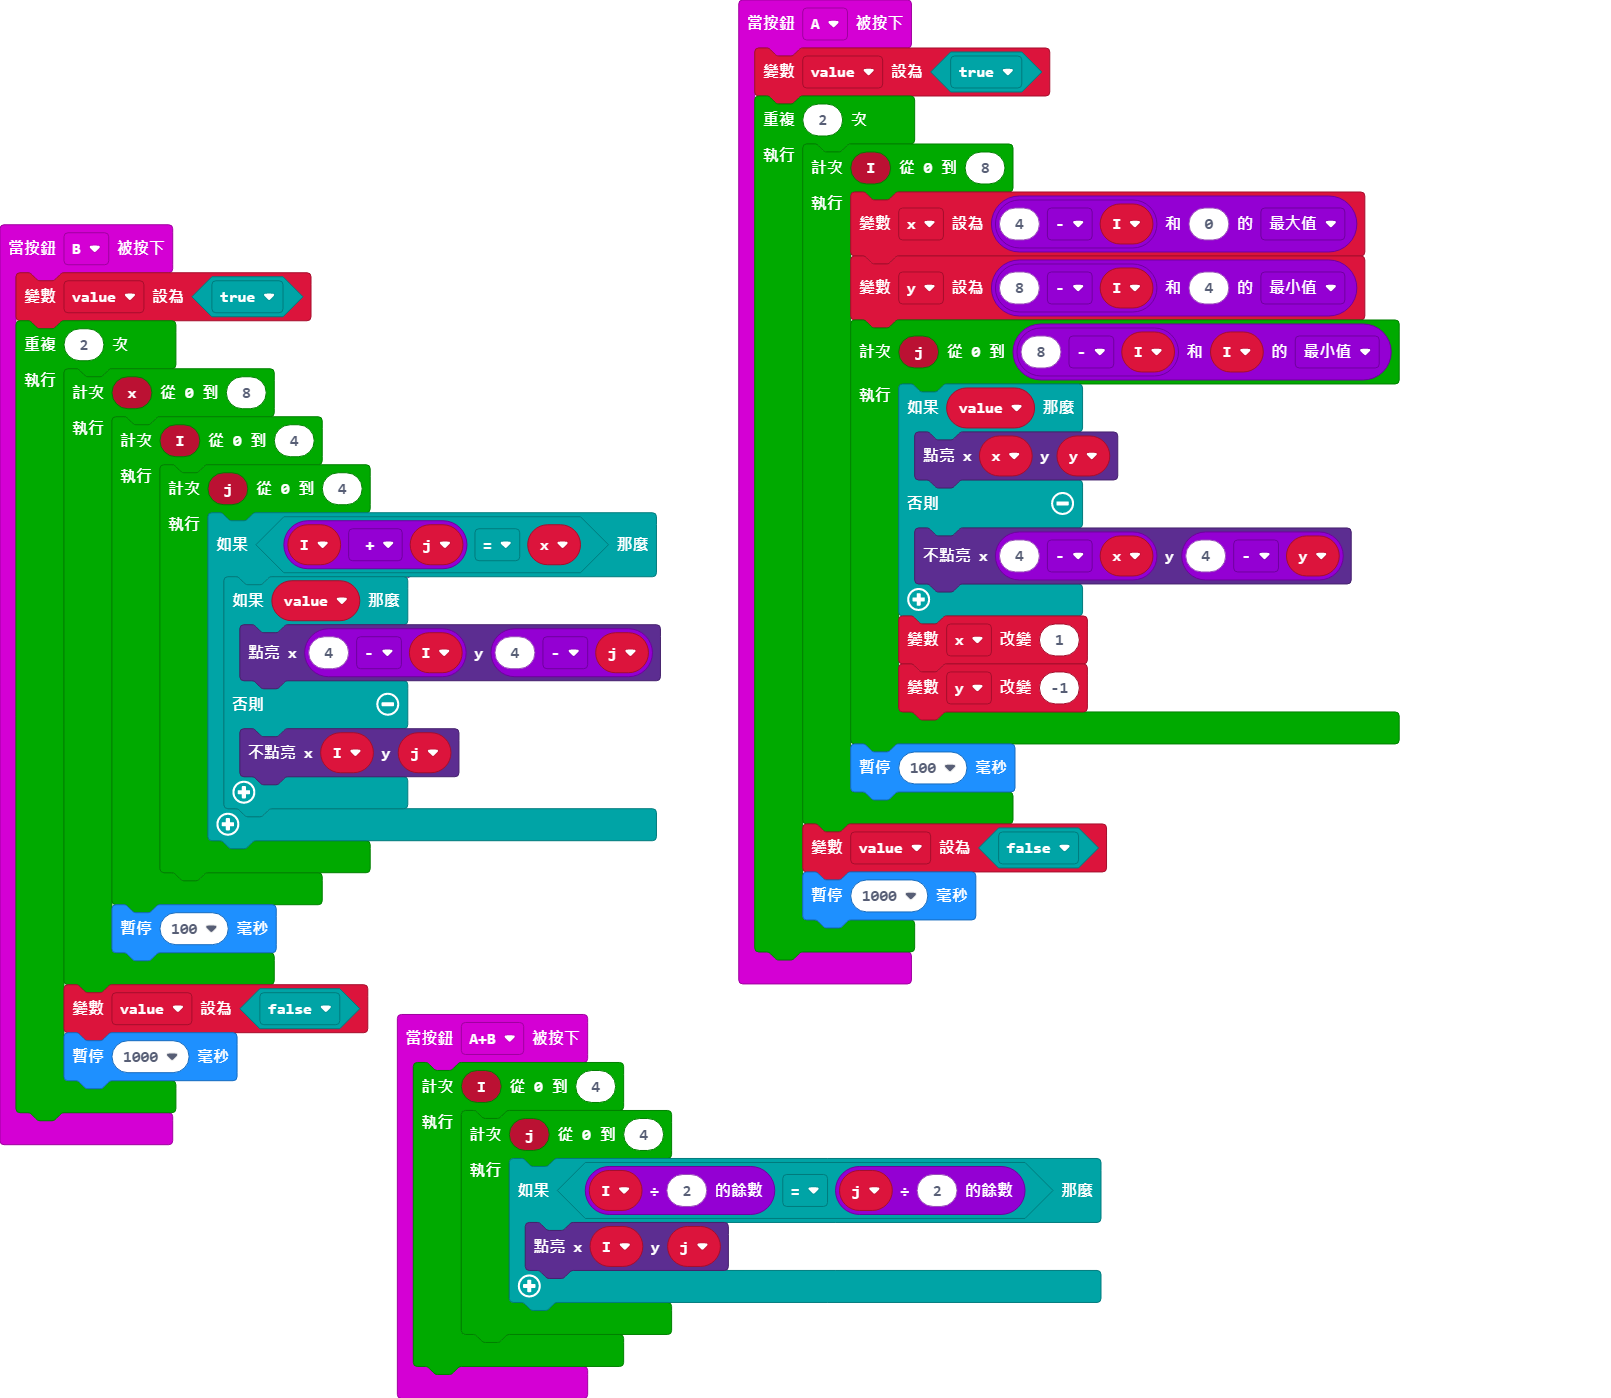
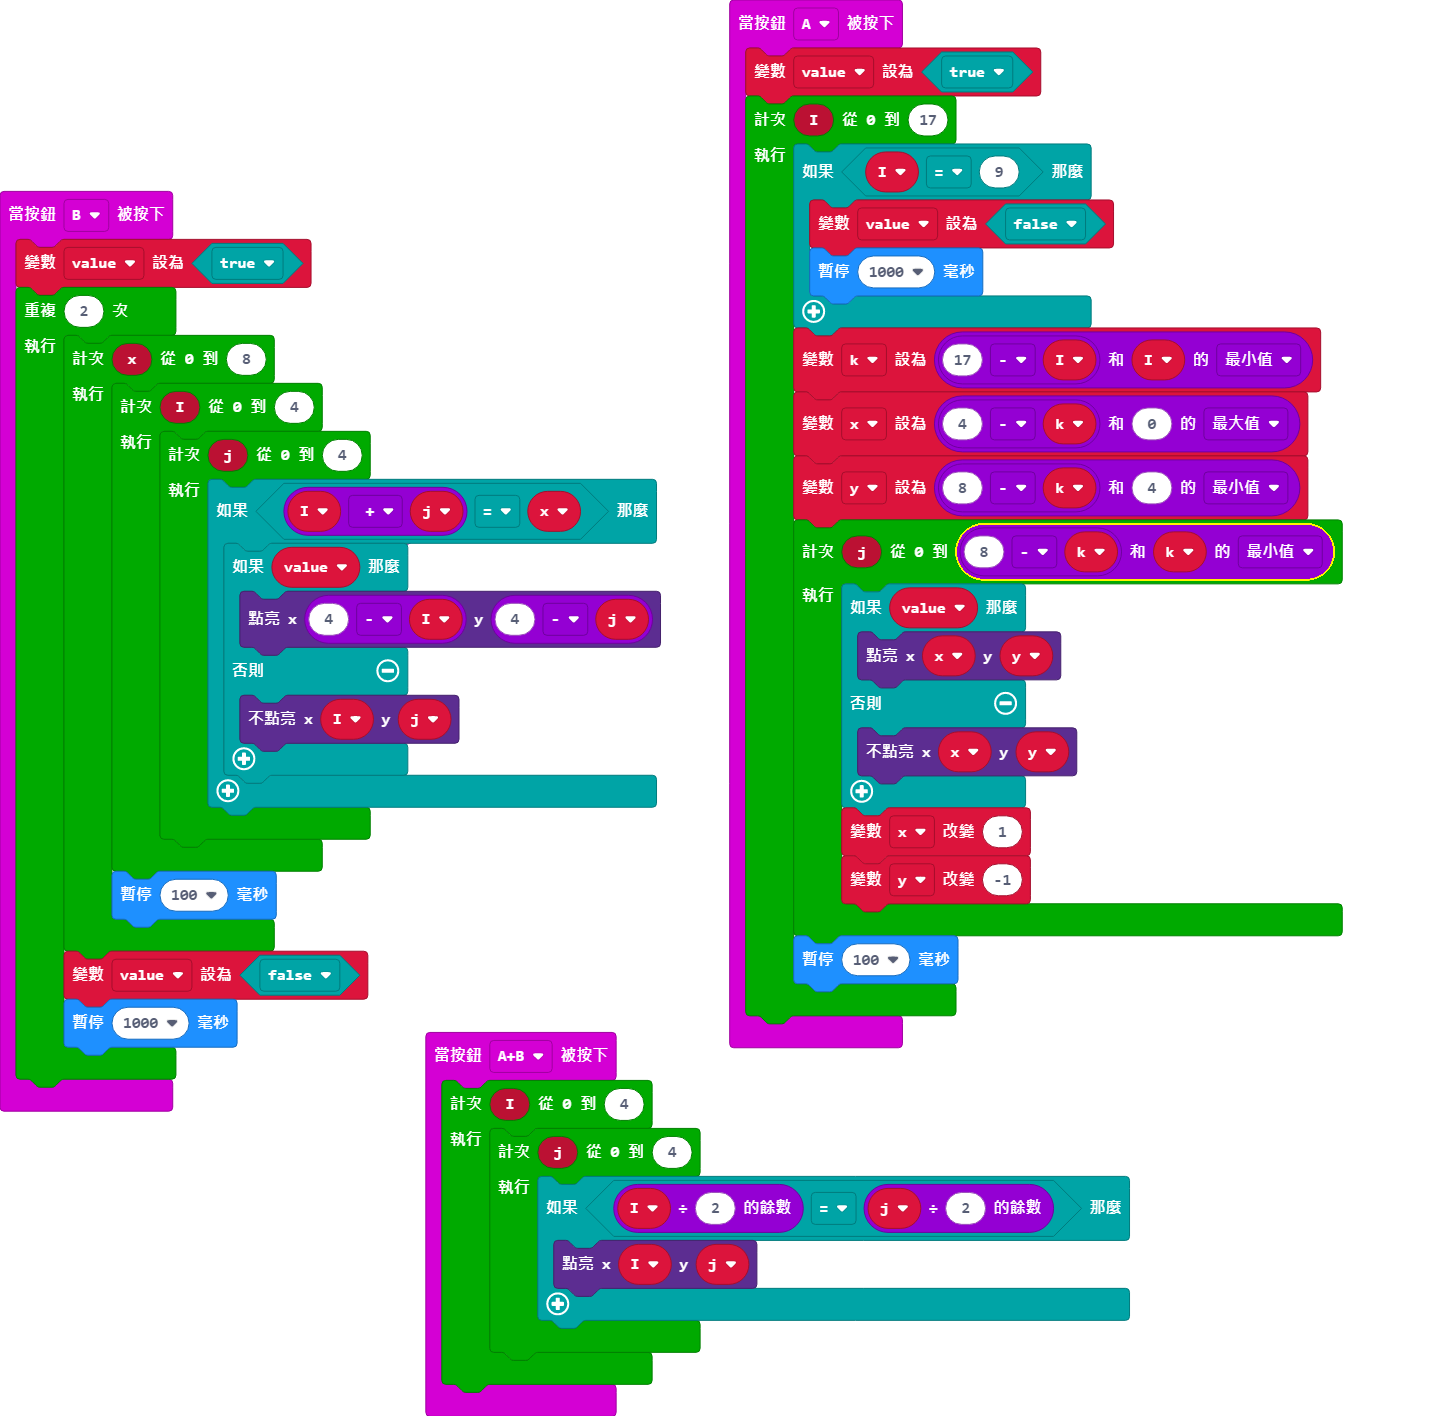
Update main.blocks, main.ts

diff --git a/main.ts b/main.ts
@@ -1,25 +1,27 @@
 let value = false
+let k = 0
 let x = 0
 let y = 0
 input.onButtonPressed(Button.A, function () {
     value = true
-    for (let index = 0; index < 2; index++) {
-        for (let I = 0; I <= 8; I++) {
-            x = Math.max(4 - I, 0)
-            y = Math.min(8 - I, 4)
-            for (let j = 0; j <= Math.min(8 - I, I); j++) {
-                if (value) {
-                    led.plot(x, y)
-                } else {
-                    led.unplot(4 - x, 4 - y)
-                }
-                x += 1
-                y += -1
-            }
-            basic.pause(100)
+    for (let I = 0; I <= 17; I++) {
+        if (I == 9) {
+            value = false
+            basic.pause(1000)
         }
-        value = false
-        basic.pause(1000)
+        k = Math.min(17 - I, I)
+        x = Math.max(4 - k, 0)
+        y = Math.min(8 - k, 4)
+        for (let j = 0; j <= Math.min(8 - k, k); j++) {
+            if (value) {
+                led.plot(x, y)
+            } else {
+                led.unplot(x, y)
+            }
+            x += 1
+            y += -1
+        }
+        basic.pause(100)
     }
 })
 input.onButtonPressed(Button.AB, function () {
